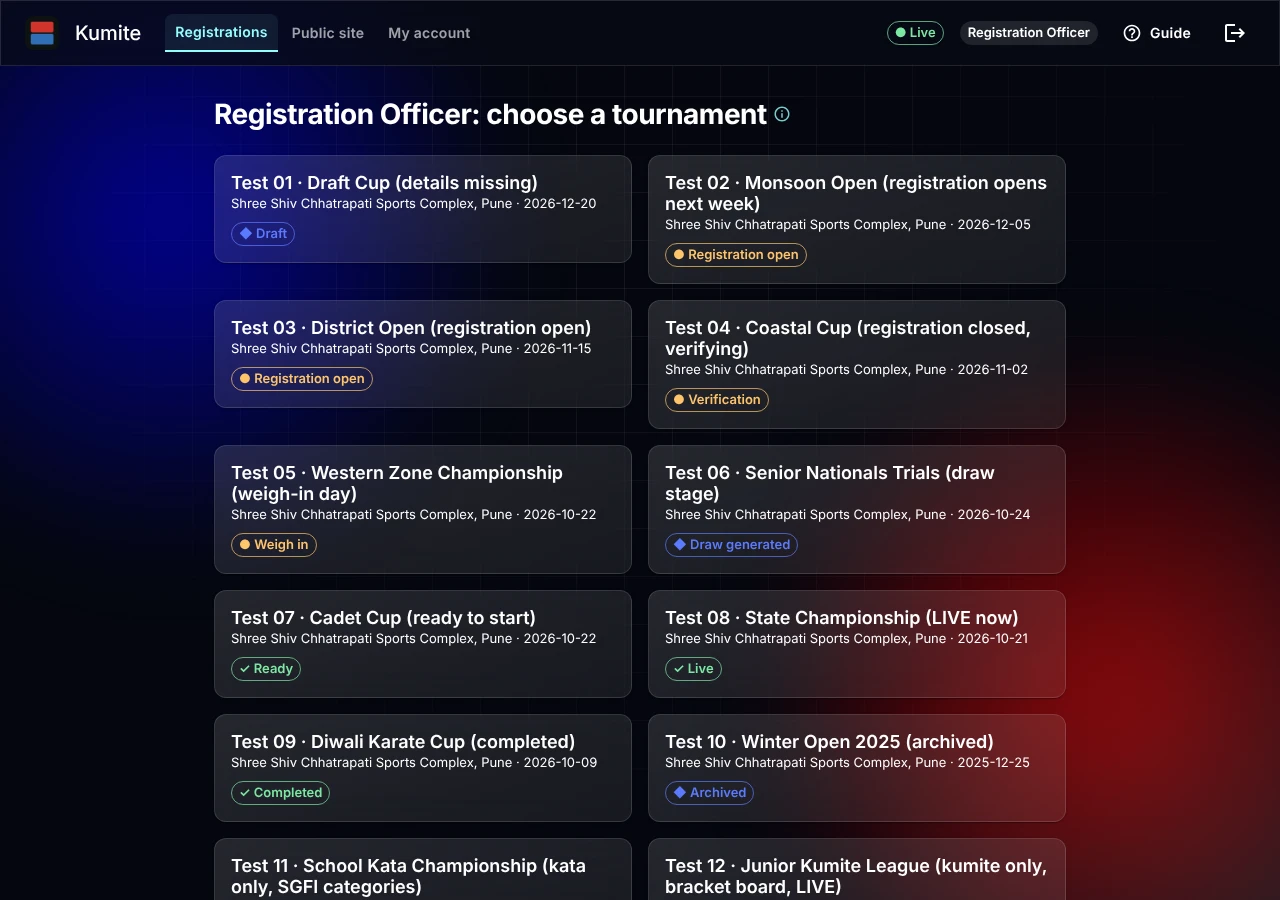
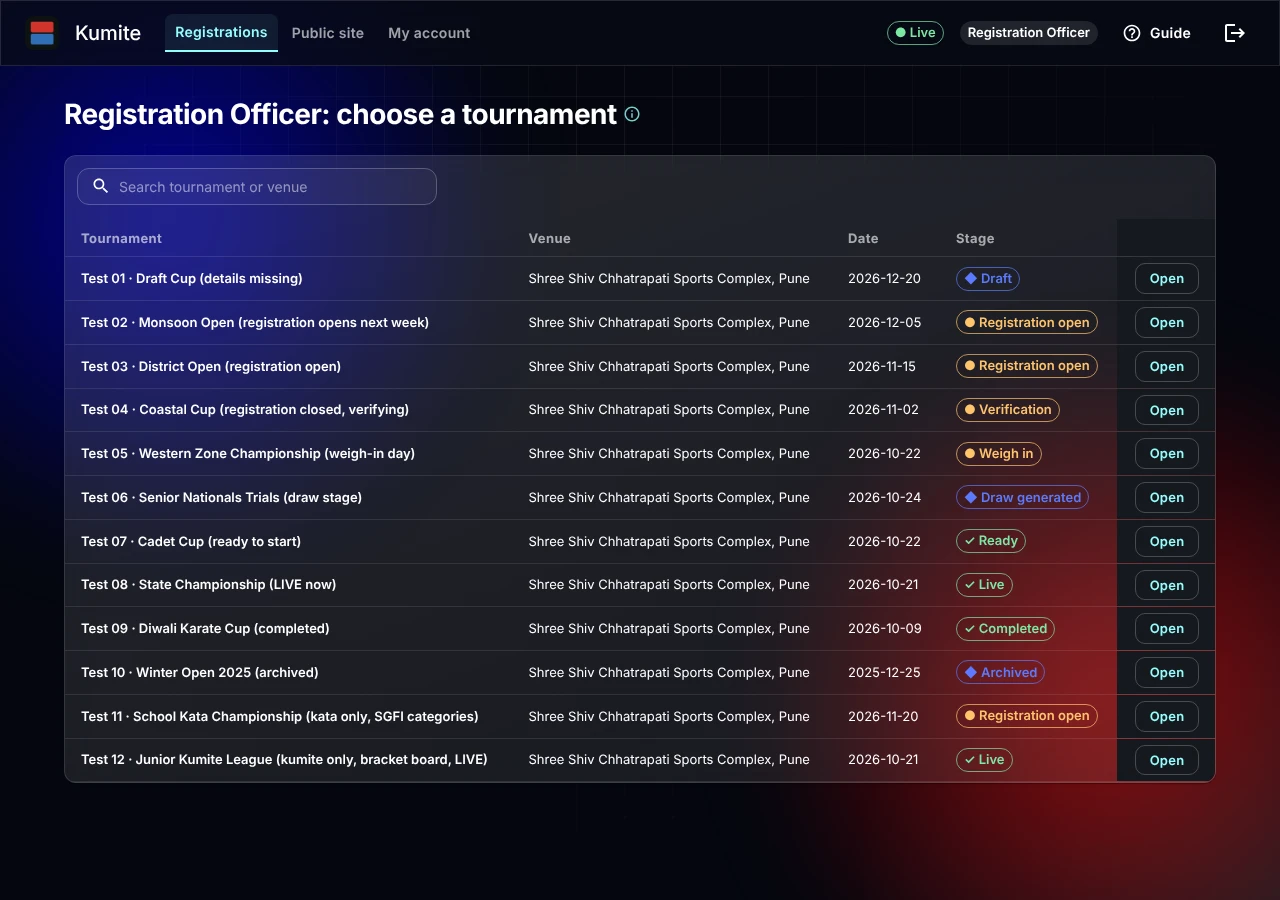
KAN-423: show the staff tournament picker as a table
The "choose a tournament" page (Registration Officer, Weigh-in Officer,
Announcer, Viewer, and a Kata Judge on Kata scoring) drew every tournament
as a large card, two to a row, so twelve tournaments took two screens. It
now uses the shared DataTable: one row each with tournament, venue, date,
stage and an Open button, plus search and sortable headings. Clicking the
row opens the tournament too. On a phone the table scrolls sideways with
Open pinned, as the app's other lists do.

The user guide says how the table works and its picture is retaken.

Claude-Session: https://claude.ai/code/session_0126QuUdDXNdBAZ2Z9CT3bto

Changed region(s): [[0.0312, 0.0933, 0.9688, 1.0]]

diff --git a/packages/web/src/components/tms/TournamentSelector.jsx b/packages/web/src/components/tms/TournamentSelector.jsx
@@ -1,32 +1,32 @@
 import { useEffect, useState } from 'react'
-import { Container, Typography, Grid, Card, CardActionArea, CardContent, Box } from '@mui/material'
+import { Container, Typography, Button } from '@mui/material'
 import { tournaments as tournamentStore } from '../../data/domain'
 import StatusBadge from './StatusBadge'
+import DataTable from './DataTable'
 import { PageLoader } from '../Loader'
 import { HelpTitle } from '../help/InfoTip'
 
-/** Section 63.6's TournamentSelector: officers pick the event they are working. */
+const dayOf = (t) => String(t.startDate || t.date || '').slice(0, 10)
+
+/** Section 63.6's TournamentSelector: officers pick the event they are working, one row each. */
 export default function TournamentSelector({ title = 'Choose a tournament', onPick }) {
   const [rows, setRows] = useState(null)
   useEffect(() => { tournamentStore.list().then(setRows).catch(() => setRows([])) }, [])
+  const columns = [
+    { key: 'name', label: 'Tournament', render: (t) => <Typography variant="body2" sx={{ fontWeight: 600, minWidth: 200 }}>{t.name}</Typography> },
+    { key: 'location', label: 'Venue', render: (t) => <span style={{ whiteSpace: 'nowrap' }}>{t.location || '—'}</span> },
+    { key: 'date', label: 'Date', value: dayOf, render: (t) => <span style={{ whiteSpace: 'nowrap' }}>{dayOf(t) || '—'}</span> },
+    { key: 'stage', label: 'Stage', value: (t) => t.lifecycleStatus || 'DRAFT', render: (t) => <StatusBadge status={t.lifecycleStatus || 'DRAFT'} /> },
+    // The row opens on a click too; the button is there for the keyboard.
+    { key: 'actions', label: '', sortable: false, align: 'right', render: (t) => <Button size="small" variant="outlined" data-tip="Opens this tournament to work on it" onClick={(e) => { e.stopPropagation(); onPick(t) }}>Open</Button> },
+  ]
   return (
-    <Container maxWidth="md" sx={{ py: 4 }}>
+    <Container maxWidth="lg" sx={{ py: 4 }}>
       <HelpTitle id="tournament.select" variant="h1" sx={{ mb: 3 }}>{title}</HelpTitle>
-      {!rows && <PageLoader label="Loading tournaments…" />}
-      {rows && !rows.length && <Typography color="text.secondary">No tournaments yet.</Typography>}
-      <Grid container spacing={2}>
-        {(rows || []).map((t) => (
-          <Grid key={t.id} size={{ xs: 12, sm: 6 }}>
-            <Card><CardActionArea onClick={() => onPick(t)}>
-              <CardContent>
-                <Typography variant="h3">{t.name}</Typography>
-                <Typography variant="body2" color="text.secondary">{t.location} · {t.startDate || t.date}</Typography>
-                <Box sx={{ mt: 1 }}><StatusBadge status={t.lifecycleStatus || 'DRAFT'} /></Box>
-              </CardContent>
-            </CardActionArea></Card>
-          </Grid>
-        ))}
-      </Grid>
+      {!rows ? <PageLoader label="Loading tournaments…" /> : (
+        <DataTable columns={columns} rows={rows} onRowClick={onPick} canExport={false}
+          searchPlaceholder="Search tournament or venue" empty="No tournaments yet." />
+      )}
     </Container>
   )
 }

diff --git a/packages/web/src/components/tms/TournamentSelector.render.test.jsx b/packages/web/src/components/tms/TournamentSelector.render.test.jsx
@@ -1,0 +1,45 @@
+import { describe, it, expect, beforeEach, vi } from 'vitest'
+import { render, screen, within } from '@testing-library/react'
+import userEvent from '@testing-library/user-event'
+import TournamentSelector from './TournamentSelector'
+import * as fake from '../../test/fakeDomain'
+
+vi.mock('../../data/domain', () => import('../../test/fakeDomain'))
+
+const CUPS = [
+  { id: 't1', name: 'Draft Cup', location: 'Pune', startDate: '2026-12-20', lifecycleStatus: 'DRAFT' },
+  { id: 't2', name: 'State Championship', location: 'Mumbai', startDate: '2026-10-21', lifecycleStatus: 'LIVE' },
+]
+
+/** Officers pick their tournament from a table: one row each, not a card. */
+describe('TournamentSelector', () => {
+  beforeEach(() => { fake.reset(); fake.seed({ tournaments: CUPS }) })
+
+  it('lists each tournament as a row with its venue, date and stage', async () => {
+    render(<TournamentSelector title="Registration Officer: choose a tournament" onPick={() => {}} />)
+    const row = (await screen.findByText('State Championship')).closest('tr')
+    expect(within(row).getByText('Mumbai')).toBeInTheDocument()
+    expect(within(row).getByText('2026-10-21')).toBeInTheDocument()
+    expect(within(row).getByText(/Live/)).toBeInTheDocument()
+    expect(screen.getAllByRole('columnheader').map((h) => h.textContent)).toEqual(['Tournament', 'Venue', 'Date', 'Stage', ''])
+  })
+
+  it('opens a tournament from its row or its Open button, once', async () => {
+    const user = userEvent.setup()
+    const onPick = vi.fn()
+    render(<TournamentSelector onPick={onPick} />)
+    await user.click(await screen.findByText('Draft Cup'))
+    expect(onPick).toHaveBeenLastCalledWith(expect.objectContaining({ id: 't1' }))
+    await user.click(within(screen.getByText('State Championship').closest('tr')).getByRole('button', { name: 'Open' }))
+    expect(onPick).toHaveBeenCalledTimes(2)
+    expect(onPick).toHaveBeenLastCalledWith(expect.objectContaining({ id: 't2' }))
+  })
+
+  it('finds a tournament by name or venue', async () => {
+    const user = userEvent.setup()
+    render(<TournamentSelector onPick={() => {}} />)
+    await user.type(await screen.findByPlaceholderText('Search tournament or venue'), 'mumbai')
+    expect(screen.getByText('State Championship')).toBeInTheDocument()
+    expect(screen.queryByText('Draft Cup')).not.toBeInTheDocument()
+  })
+})

diff --git a/docs/user-guide/README.md b/docs/user-guide/README.md
@@ -87,6 +87,8 @@ ticks its tournaments, inside its own organisation.
 
 Only admins hold the sensitive privileges: correcting a finished score, overriding a result, redrawing pools, reopening a completed tournament, and overriding a closed weigh-in. A Tournament Admin holds the same ones inside the tournaments it was given.
 
+Staff whose home screen is "Choose a tournament" (and a Kata Judge opening **Kata scoring**) see the tournaments in a table: name, venue, date and stage, one row each. Type in the search box to find one by name or venue, click a heading to sort, and click the row or its **Open** button to start work.
+
 ![Staff with one job pick a tournament first (here the Registration Officer).](images/staff-picker.webp)
 
 *Staff with one job pick a tournament first (here the Registration Officer).*
